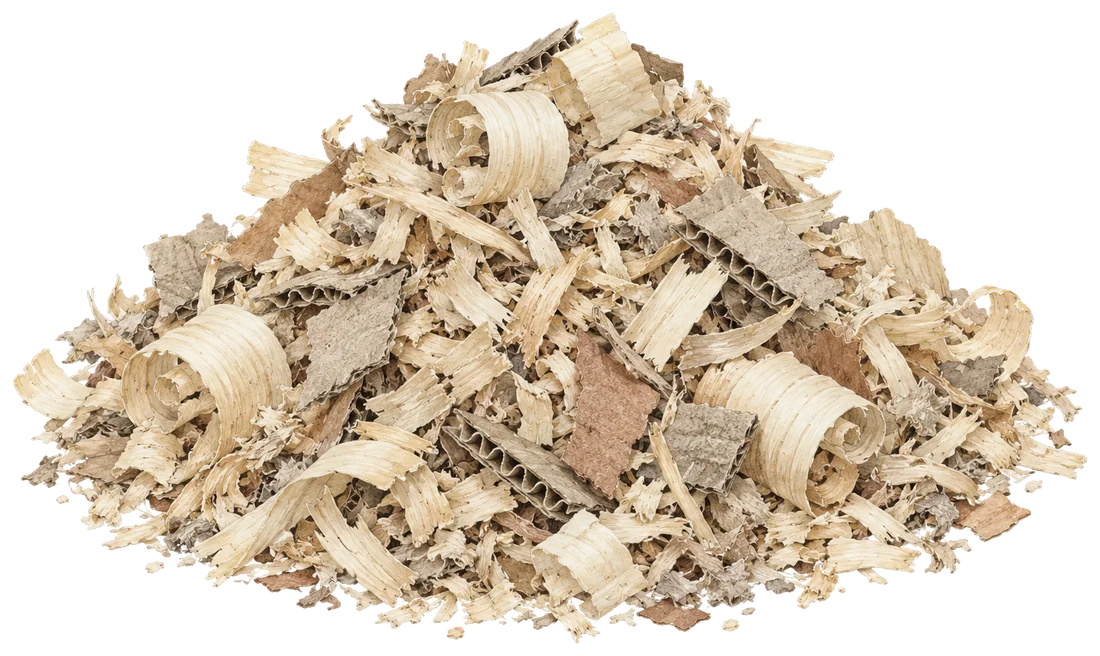
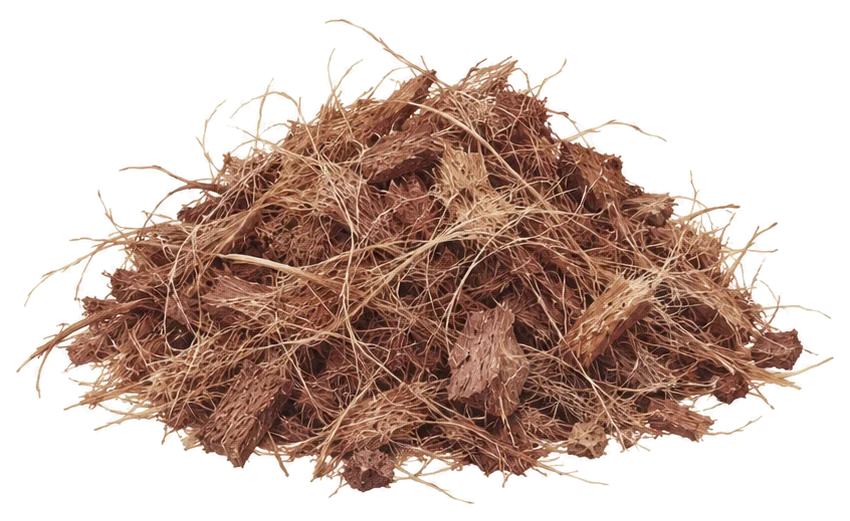
web: sustrato de coco en la lista de materiales, el paso 3 y el mapa de la caja

diff --git a/web/src/lib/content/enclosure.ts b/web/src/lib/content/enclosure.ts
@@ -72,8 +72,8 @@ export const MATERIALS: Material[] = [
   },
   {
     id: "sustrato",
-    item: "Sustrato seco",
-    detail: "Tierra seca, aserrín limpio o papel periódico para el fondo.",
+    item: "Sustrato de coco",
+    detail: "Fibra de coco seca para el fondo, la que usa el proyecto.",
   },
   {
     id: "hueveras",
@@ -126,7 +126,7 @@ export const ENCLOSURE_STEPS: EnclosureStep[] = [
     number: 3,
     imagen: "/acuarelas/caja-sustrato.webp",
     title: "Ponga el sustrato",
-    body: "Cubra el fondo con una capa delgada de material seco. Ayuda a mantener la caja seca y facilita la limpieza.",
+    body: "Cubra el fondo con una capa delgada de fibra de coco seca. Ayuda a mantener la caja seca y facilita la limpieza.",
     tip: "No use materiales húmedos ni con olor a moho.",
   },
   {

diff --git a/web/src/components/diagrama-caja.tsx b/web/src/components/diagrama-caja.tsx
@@ -26,7 +26,7 @@ import { cn } from "@/lib/utils";
 export const PARTES_CAJA = [
   { n: 1, nombre: "Caja con tapa" },
   { n: 2, nombre: "Ventana de malla en la tapa" },
-  { n: 3, nombre: "Sustrato seco en el fondo" },
+  { n: 3, nombre: "Sustrato de coco en el fondo" },
   { n: 4, nombre: "Hueveras como refugio" },
   { n: 5, nombre: "Plato bajo con alimento" },
   { n: 6, nombre: "Tapita con algodón húmedo" },
